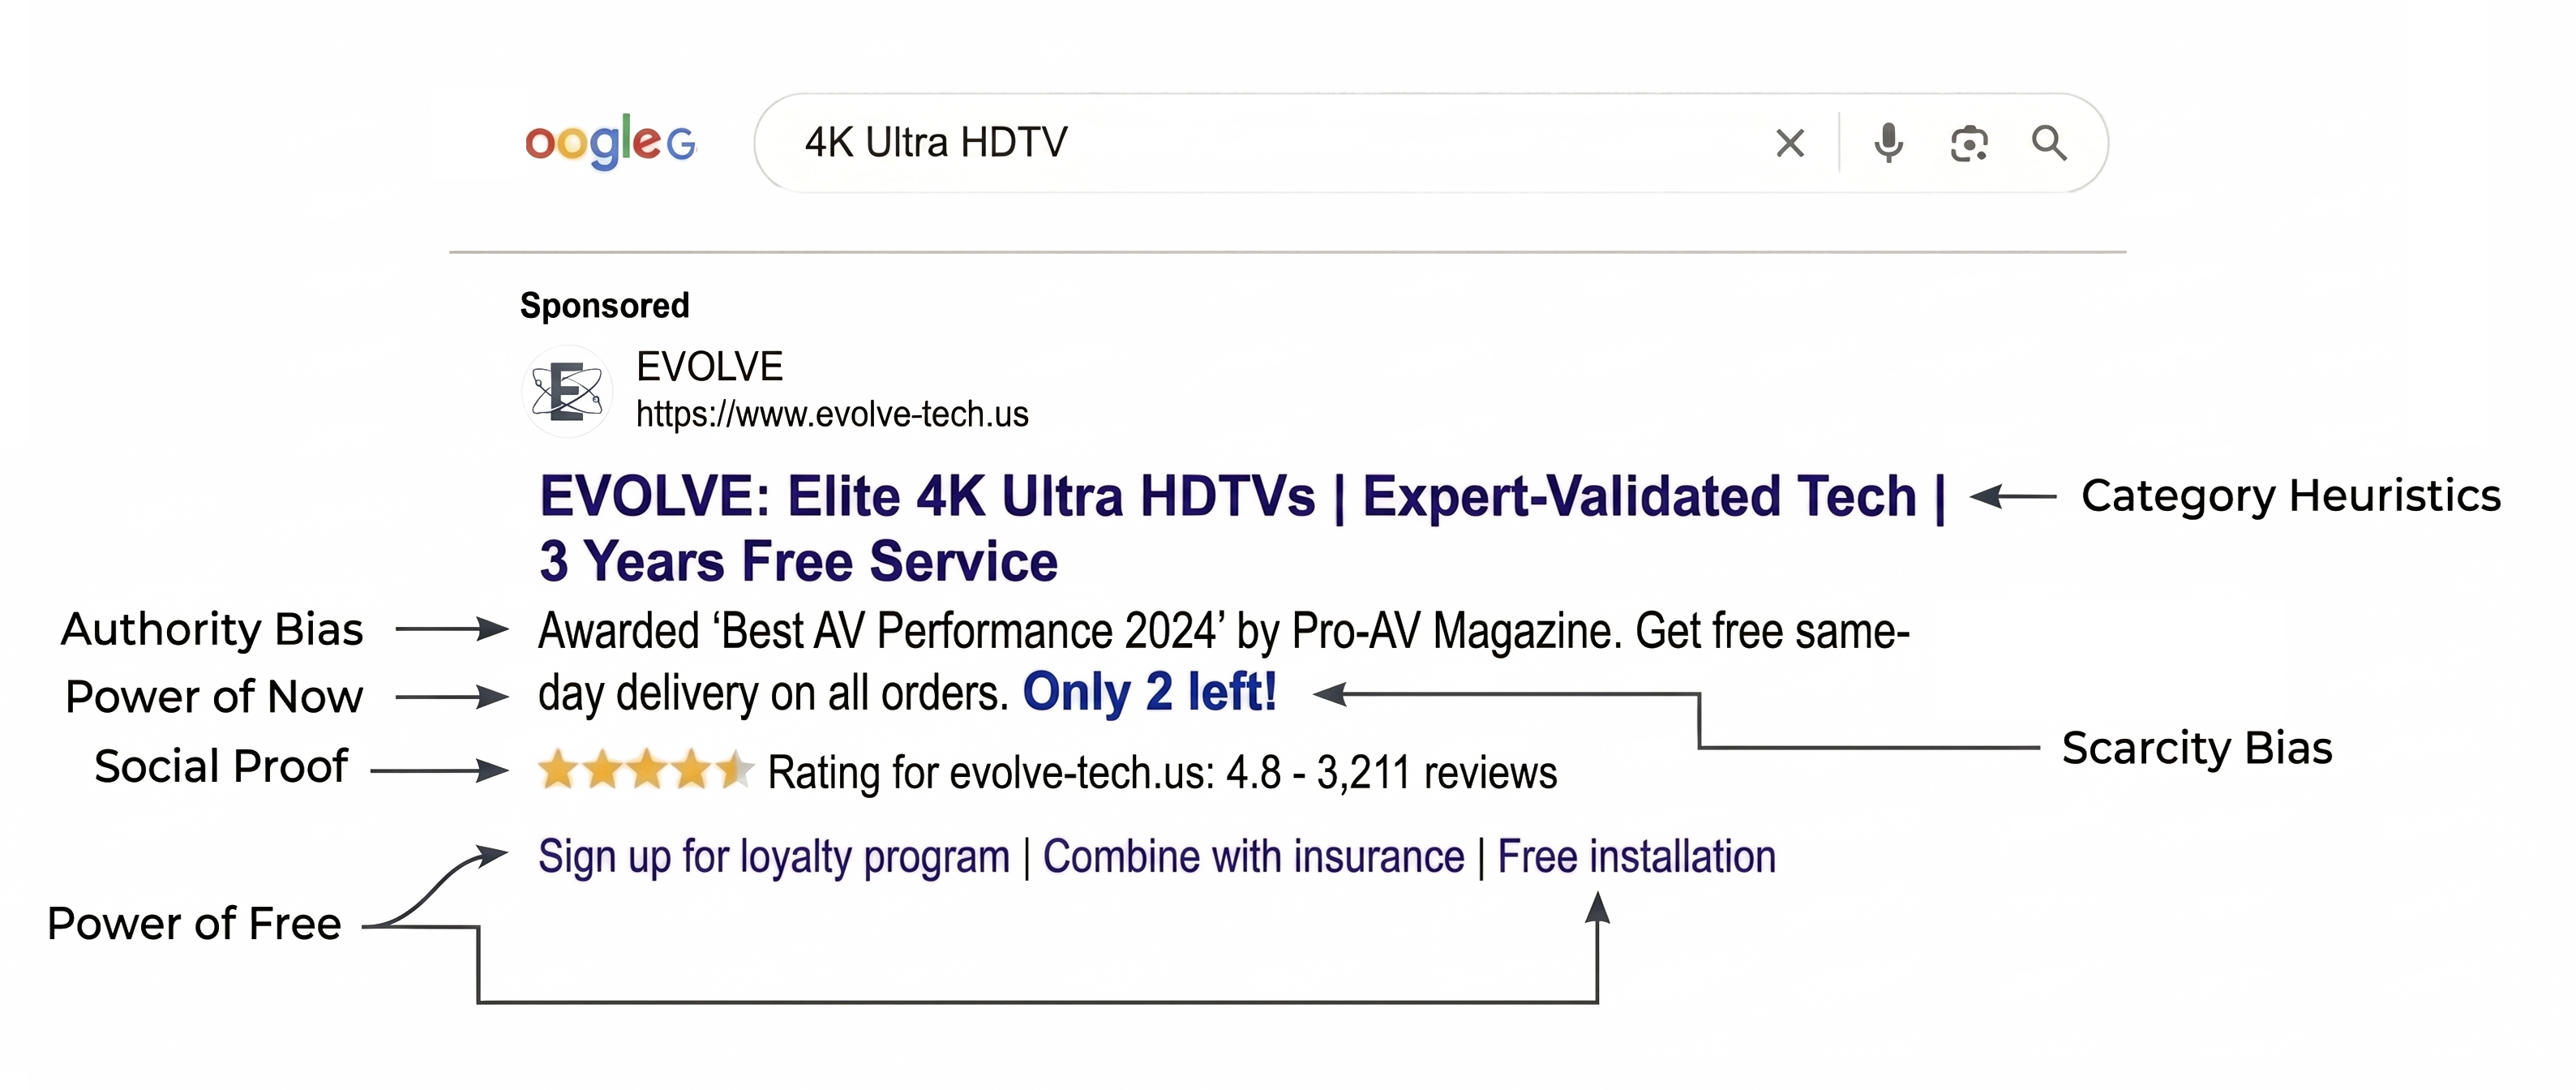
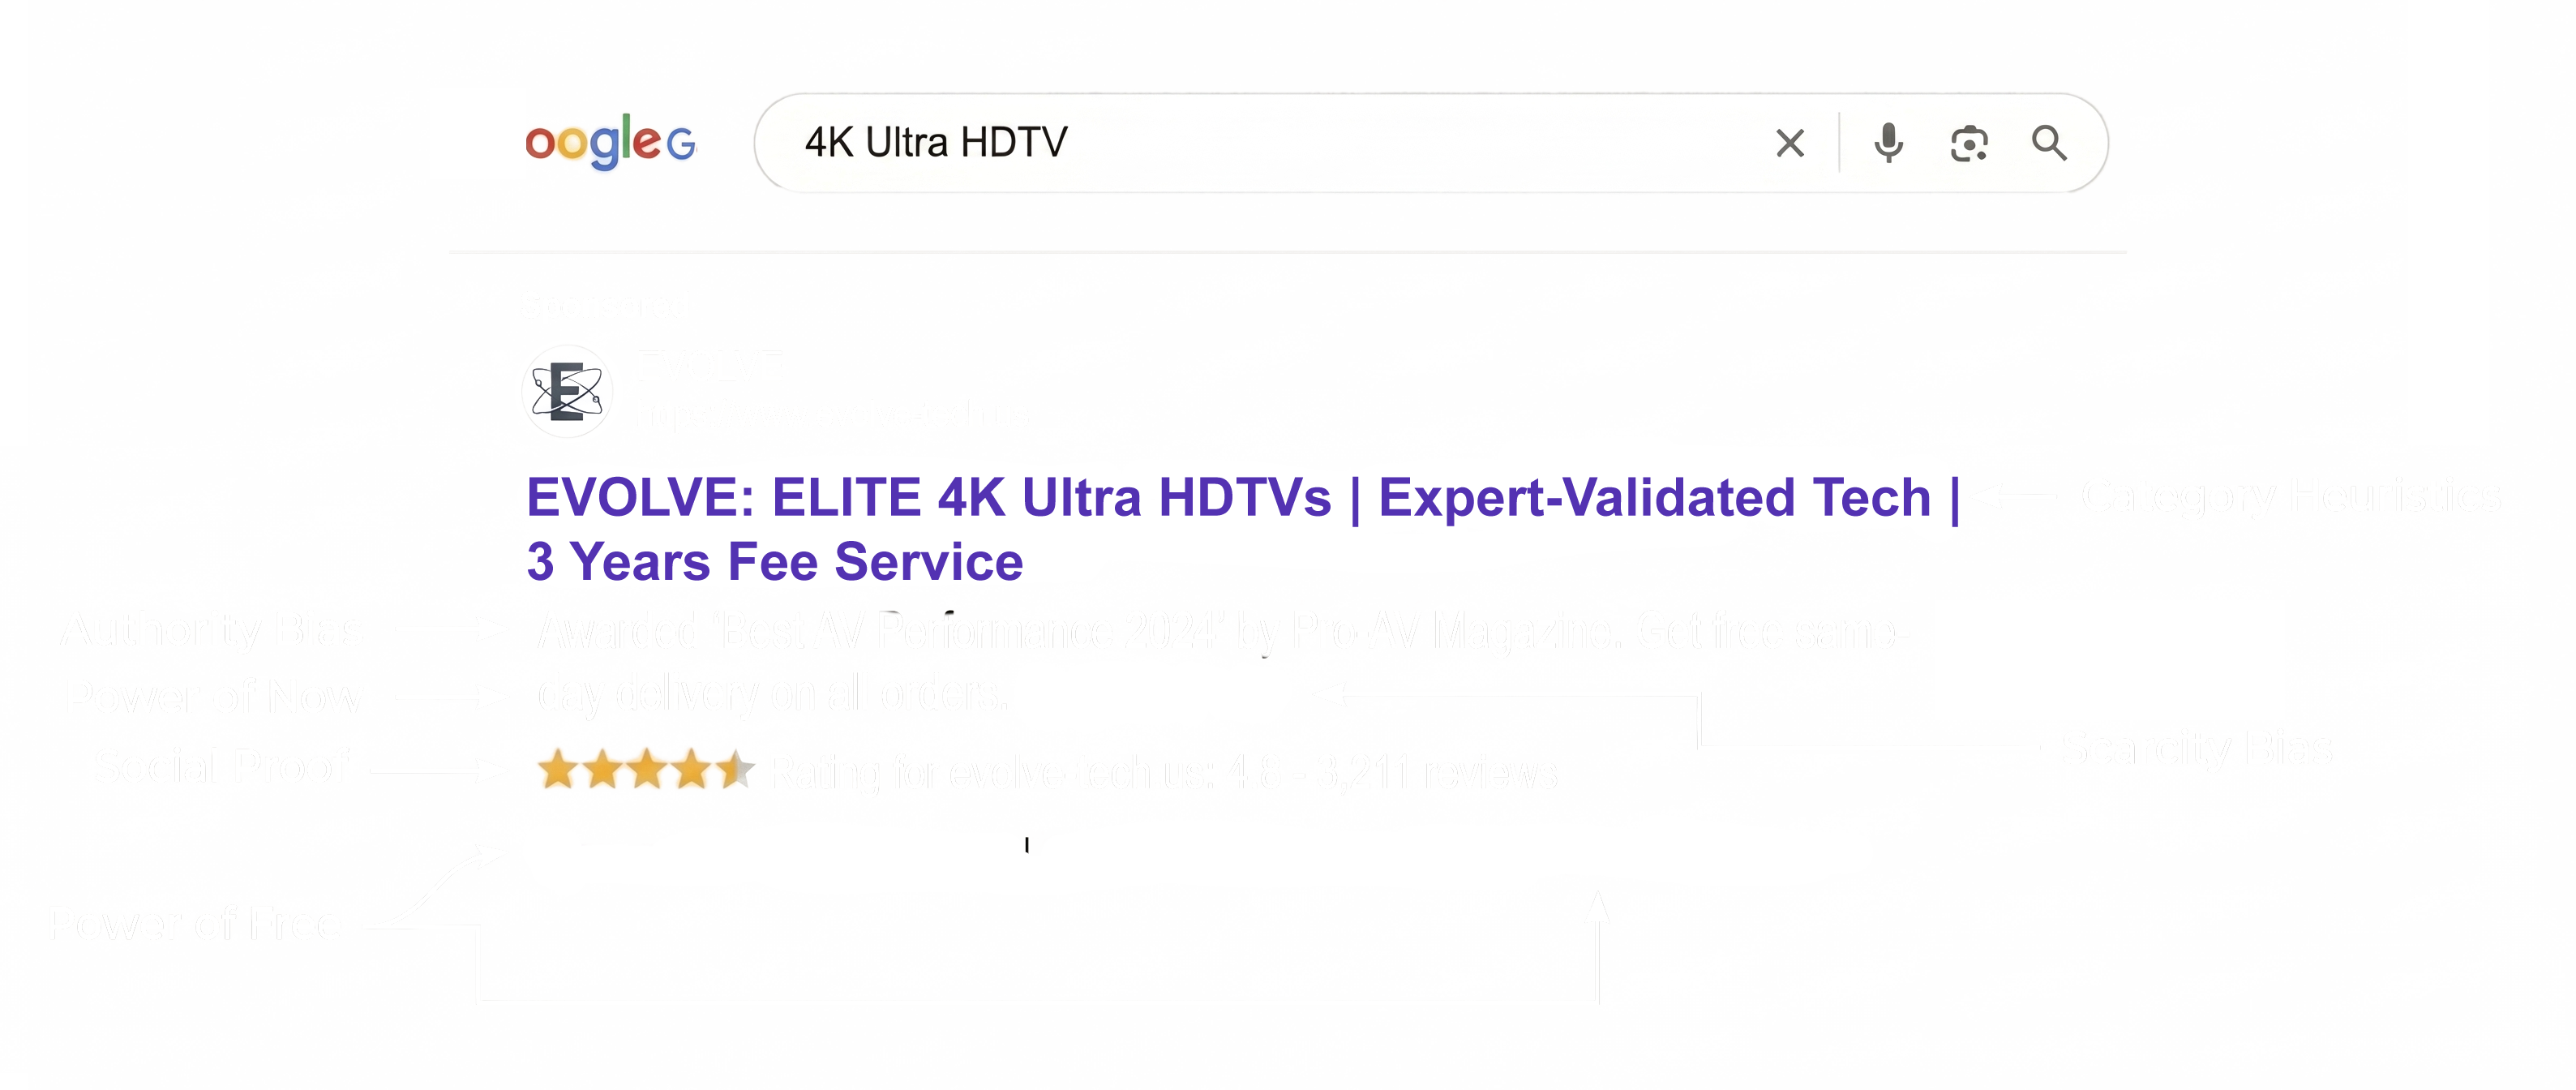
v14: author updated to Robin Askevold, refreshed article images

diff --git a/guides/cpm-vs-ecpm.html b/guides/cpm-vs-ecpm.html
@@ -35,10 +35,10 @@
     <h1>CPM vs eCPM - What is the Difference?</h1>
     
 <div class="author-box">
-  <img src="/images/peter-jensen.jpg" alt="Peter Jensen" class="author-avatar">
+  <img src="/images/robin-askevold.jpg" alt="Robin Askevold" class="author-avatar">
   <div class="author-meta">
-    <span class="author-name">Peter Jensen</span>
-    <span class="author-title">Marketing Specialist</span>
+    <span class="author-name">Robin Askevold</span>
+    <span class="author-title">Performance Specialist</span>
     <span class="author-updated">Updated June 30, 2026</span>
   </div>
 </div>

diff --git a/guides/how-to-calculate-campaign-budget.html b/guides/how-to-calculate-campaign-budget.html
@@ -35,10 +35,10 @@
     <h1>How to Calculate a Campaign Budget</h1>
     
 <div class="author-box">
-  <img src="/images/peter-jensen.jpg" alt="Peter Jensen" class="author-avatar">
+  <img src="/images/robin-askevold.jpg" alt="Robin Askevold" class="author-avatar">
   <div class="author-meta">
-    <span class="author-name">Peter Jensen</span>
-    <span class="author-title">Marketing Specialist</span>
+    <span class="author-name">Robin Askevold</span>
+    <span class="author-title">Performance Specialist</span>
     <span class="author-updated">Updated June 30, 2026</span>
   </div>
 </div>

diff --git a/guides/marketing-budget-benchmarks.html b/guides/marketing-budget-benchmarks.html
@@ -35,10 +35,10 @@
     <h1>Marketing Budget Benchmarks by Channel</h1>
     
 <div class="author-box">
-  <img src="/images/peter-jensen.jpg" alt="Peter Jensen" class="author-avatar">
+  <img src="/images/robin-askevold.jpg" alt="Robin Askevold" class="author-avatar">
   <div class="author-meta">
-    <span class="author-name">Peter Jensen</span>
-    <span class="author-title">Marketing Specialist</span>
+    <span class="author-name">Robin Askevold</span>
+    <span class="author-title">Performance Specialist</span>
     <span class="author-updated">Updated June 30, 2026</span>
   </div>
 </div>

diff --git a/guides/responsive-search-ads-guide.html b/guides/responsive-search-ads-guide.html
@@ -35,10 +35,10 @@
     <h1>The Ultimate Google Search Ads Guide: Learn How to Write Winning Responsive Search Ads</h1>
     
 <div class="author-box">
-  <img src="/images/peter-jensen.jpg" alt="Peter Jensen" class="author-avatar">
+  <img src="/images/robin-askevold.jpg" alt="Robin Askevold" class="author-avatar">
   <div class="author-meta">
-    <span class="author-name">Peter Jensen</span>
-    <span class="author-title">Marketing Specialist</span>
+    <span class="author-name">Robin Askevold</span>
+    <span class="author-title">Performance Specialist</span>
     <span class="author-updated">Updated June 30, 2026</span>
   </div>
 </div>

diff --git a/guides/what-is-cpm.html b/guides/what-is-cpm.html
@@ -35,10 +35,10 @@
     <h1>The Marketer's Guide to CPM: What It Means and Why It Drives Brand Growth</h1>
     
 <div class="author-box">
-  <img src="/images/peter-jensen.jpg" alt="Peter Jensen" class="author-avatar">
+  <img src="/images/robin-askevold.jpg" alt="Robin Askevold" class="author-avatar">
   <div class="author-meta">
-    <span class="author-name">Peter Jensen</span>
-    <span class="author-title">Marketing Specialist</span>
+    <span class="author-name">Robin Askevold</span>
+    <span class="author-title">Performance Specialist</span>
     <span class="author-updated">Updated June 30, 2026</span>
   </div>
 </div>

diff --git a/guides/what-is-ctr.html b/guides/what-is-ctr.html
@@ -35,10 +35,10 @@
     <h1>What is CTR? Click-Through Rate Explained</h1>
     
 <div class="author-box">
-  <img src="/images/peter-jensen.jpg" alt="Peter Jensen" class="author-avatar">
+  <img src="/images/robin-askevold.jpg" alt="Robin Askevold" class="author-avatar">
   <div class="author-meta">
-    <span class="author-name">Peter Jensen</span>
-    <span class="author-title">Marketing Specialist</span>
+    <span class="author-name">Robin Askevold</span>
+    <span class="author-title">Performance Specialist</span>
     <span class="author-updated">Updated June 30, 2026</span>
   </div>
 </div>

diff --git a/guides/what-is-poas.html b/guides/what-is-poas.html
@@ -35,10 +35,10 @@
     <h1>The Ultimate Guide to POAS: Why POAS is the Metric That Actually Scales E-Commerce Profit</h1>
     
 <div class="author-box">
-  <img src="/images/peter-jensen.jpg" alt="Peter Jensen" class="author-avatar">
+  <img src="/images/robin-askevold.jpg" alt="Robin Askevold" class="author-avatar">
   <div class="author-meta">
-    <span class="author-name">Peter Jensen</span>
-    <span class="author-title">Marketing Specialist</span>
+    <span class="author-name">Robin Askevold</span>
+    <span class="author-title">Performance Specialist</span>
     <span class="author-updated">Updated June 30, 2026</span>
   </div>
 </div>

diff --git a/guides/what-is-roas.html b/guides/what-is-roas.html
@@ -35,10 +35,10 @@
     <h1>The Ultimate Guide to ROAS: Measuring the True Efficiency of Your Ad Spend</h1>
     
 <div class="author-box">
-  <img src="/images/peter-jensen.jpg" alt="Peter Jensen" class="author-avatar">
+  <img src="/images/robin-askevold.jpg" alt="Robin Askevold" class="author-avatar">
   <div class="author-meta">
-    <span class="author-name">Peter Jensen</span>
-    <span class="author-title">Marketing Specialist</span>
+    <span class="author-name">Robin Askevold</span>
+    <span class="author-title">Performance Specialist</span>
     <span class="author-updated">Updated June 30, 2026</span>
   </div>
 </div>

diff --git a/build.py b/build.py
@@ -364,10 +364,10 @@ def guide_body(title, tag, content_html, h1=None):
     updated = date.today().strftime("%B %d, %Y")
     author_box = f'''
 <div class="author-box">
-  <img src="/images/peter-jensen.jpg" alt="Peter Jensen" class="author-avatar">
+  <img src="/images/robin-askevold.jpg" alt="Robin Askevold" class="author-avatar">
   <div class="author-meta">
-    <span class="author-name">Peter Jensen</span>
-    <span class="author-title">Marketing Specialist</span>
+    <span class="author-name">Robin Askevold</span>
+    <span class="author-title">Performance Specialist</span>
     <span class="author-updated">Updated {updated}</span>
   </div>
 </div>'''